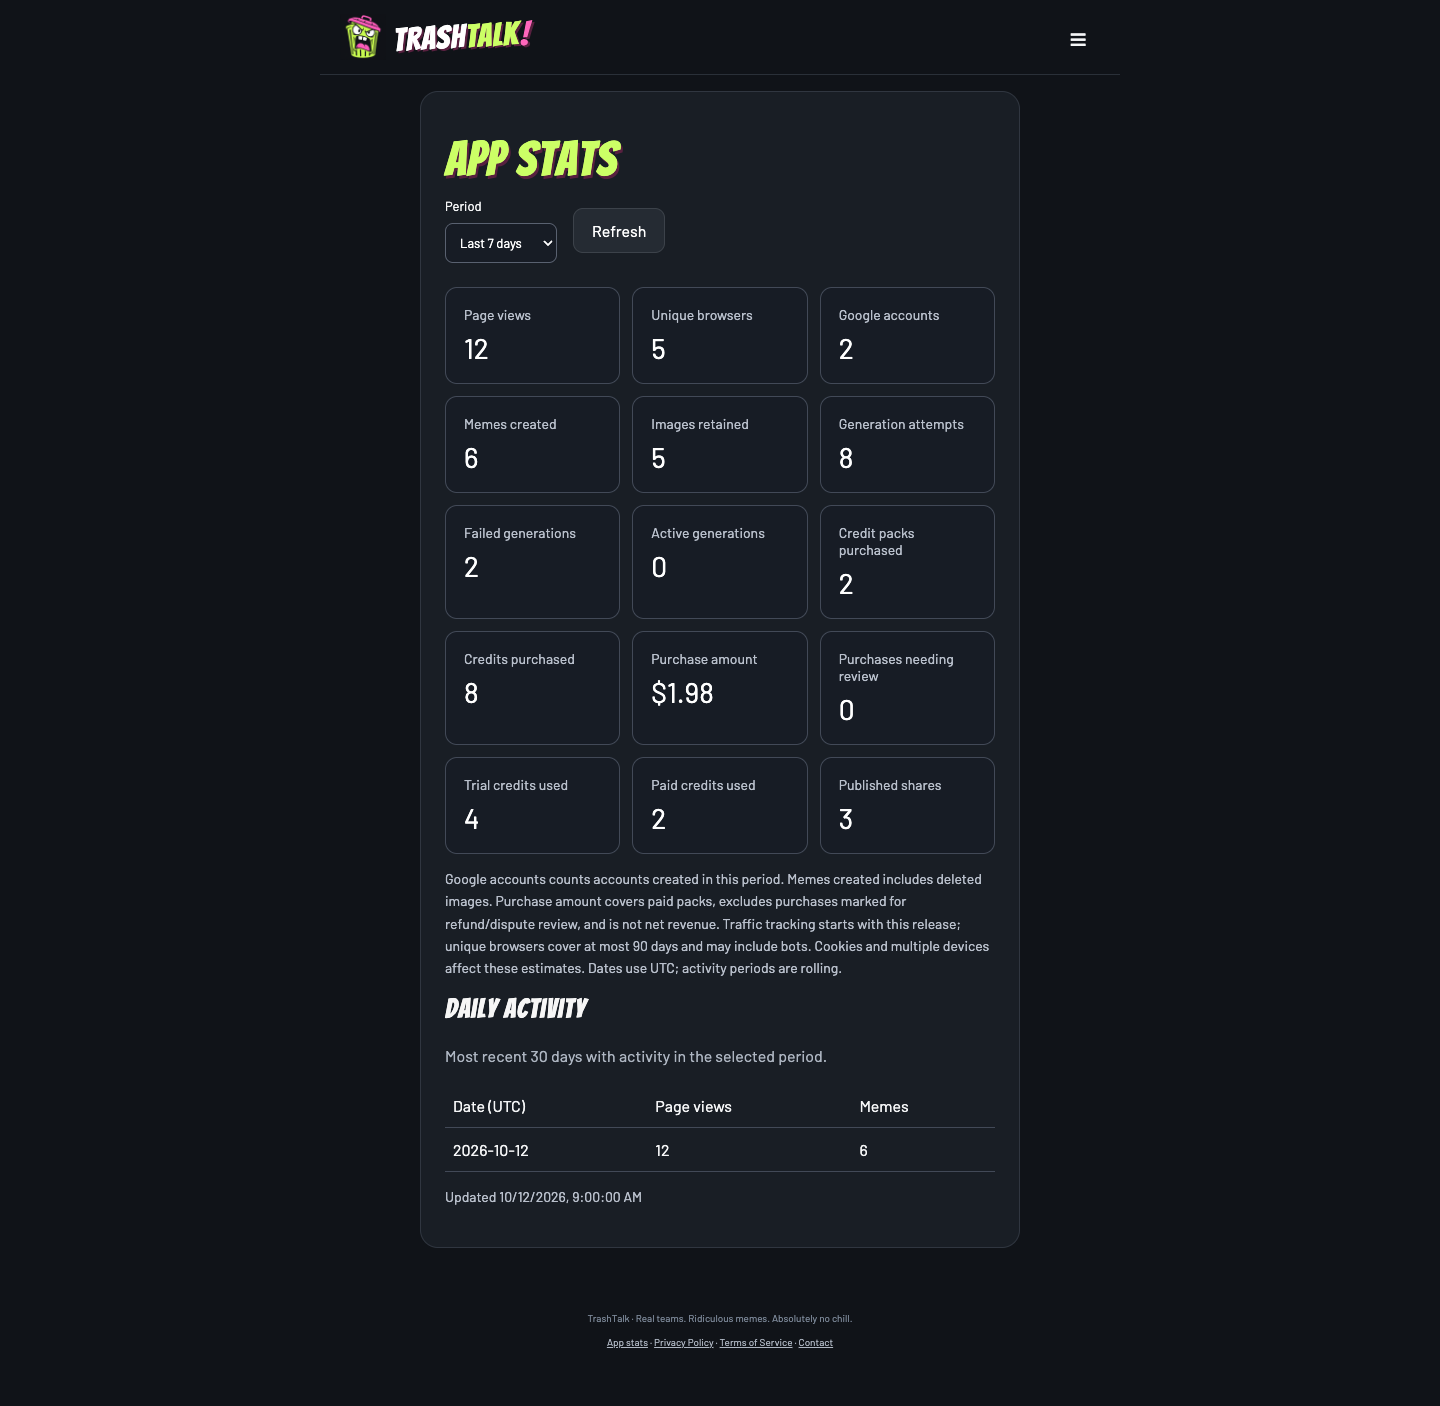
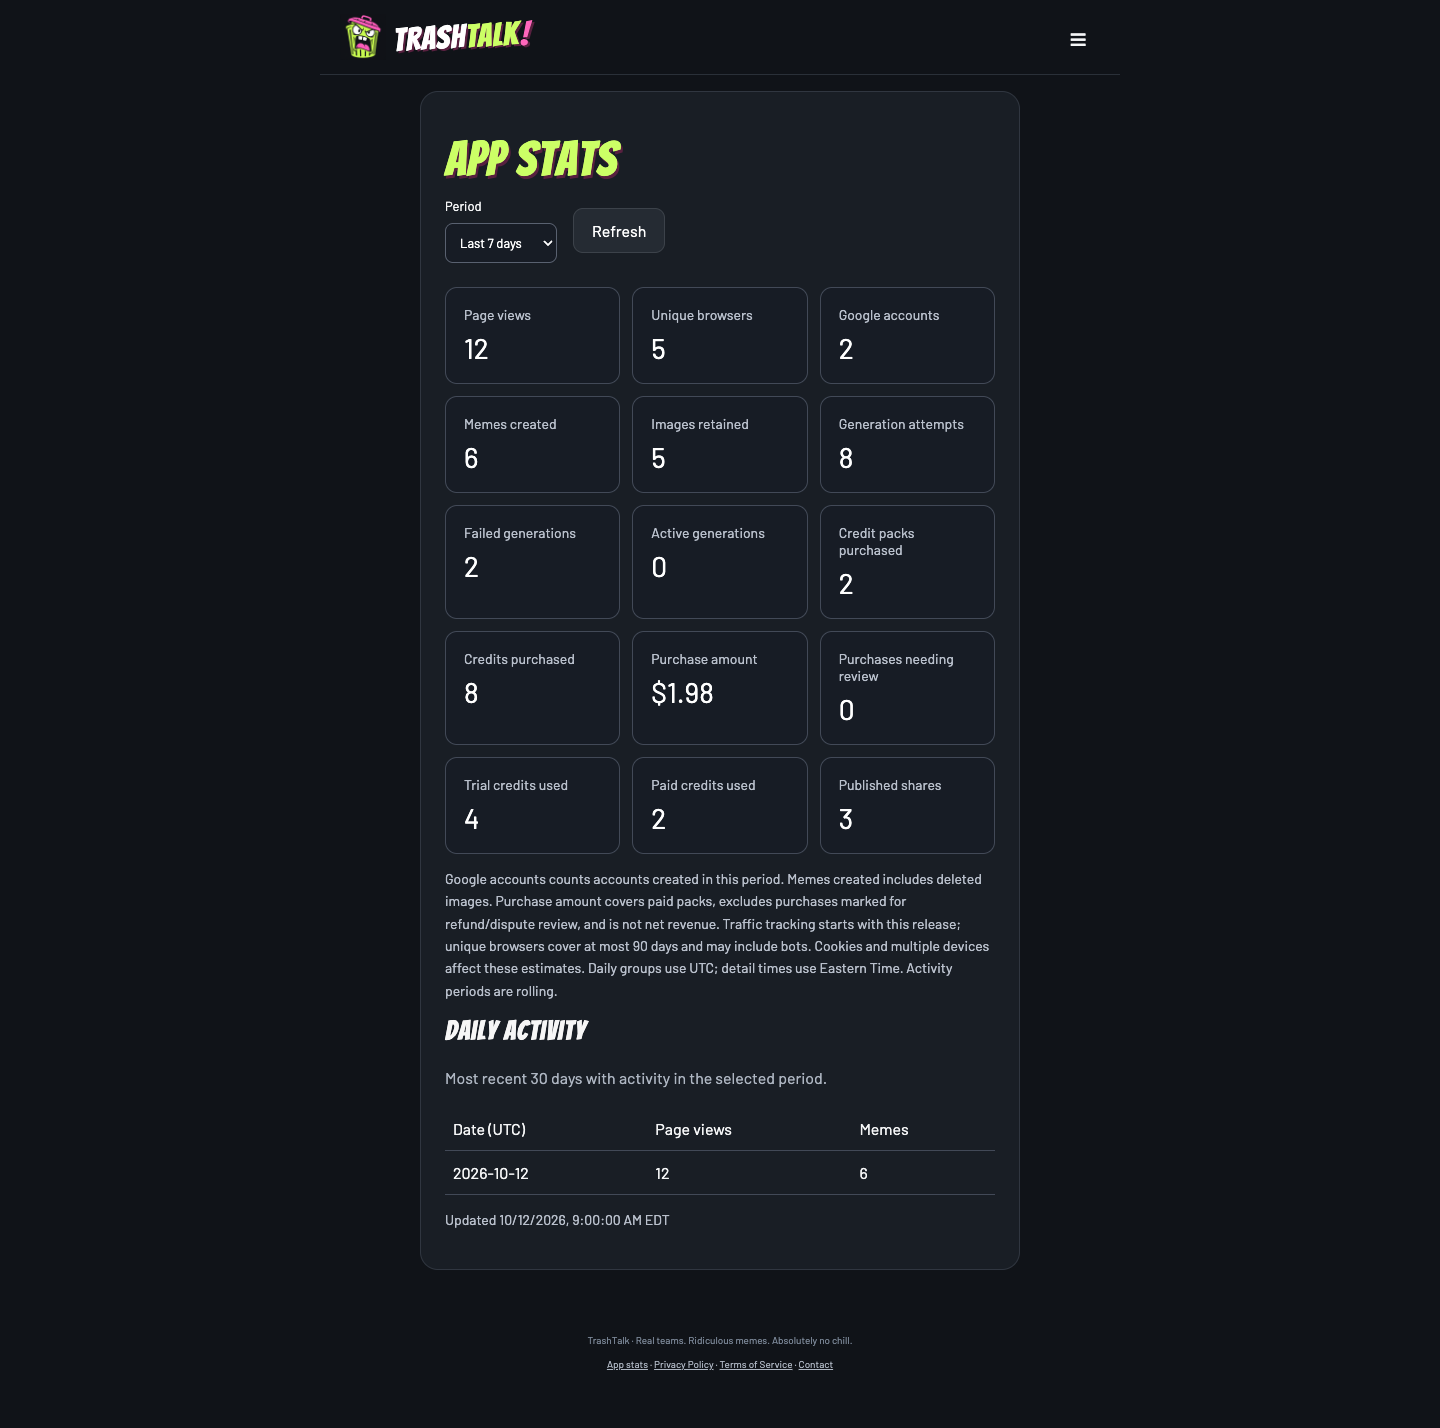
Show Eastern date and time in stats detail modals

diff --git a/worker/src/stats.ts b/worker/src/stats.ts
@@ -87,8 +87,8 @@ export async function statDetails(
     columns: string[],
     note = "";
   if (metric === "views") {
-    query = `SELECT i.day AS "Date (UTC)",CASE WHEN i.ip='' THEN 'Not recorded' ELSE i.ip END AS "IP address",g.city AS "City",g.state AS "State / region",g.country AS "Country",i.views AS "Page views" FROM traffic_ip_daily i LEFT JOIN traffic_ip_locations g ON g.ip=i.ip WHERE i.day>=?
-      UNION ALL SELECT d.day AS "Date (UTC)",'Not recorded' AS "IP address",NULL AS "City",NULL AS "State / region",NULL AS "Country",d.views-COALESCE((SELECT SUM(i.views) FROM traffic_ip_daily i WHERE i.day=d.day),0) AS "Page views" FROM traffic_daily d WHERE d.day>=? AND d.views>COALESCE((SELECT SUM(i.views) FROM traffic_ip_daily i WHERE i.day=d.day),0) ORDER BY "Date (UTC)" DESC,"IP address"`;
+    query = `SELECT i.day AS "Date (UTC)",CASE WHEN i.ip='' THEN 'Not recorded' ELSE i.ip END AS "IP address",g.city AS "City",g.state AS "State / region",g.country AS "Country",i.views AS "Page views",i.first_seen AS "First visit (ET)",i.last_seen AS "Last visit (ET)" FROM traffic_ip_daily i LEFT JOIN traffic_ip_locations g ON g.ip=i.ip WHERE i.day>=?
+      UNION ALL SELECT d.day AS "Date (UTC)",'Not recorded' AS "IP address",NULL AS "City",NULL AS "State / region",NULL AS "Country",d.views-COALESCE((SELECT SUM(i.views) FROM traffic_ip_daily i WHERE i.day=d.day),0) AS "Page views",NULL AS "First visit (ET)",NULL AS "Last visit (ET)" FROM traffic_daily d WHERE d.day>=? AND d.views>COALESCE((SELECT SUM(i.views) FROM traffic_ip_daily i WHERE i.day=d.day),0) ORDER BY "Date (UTC)" DESC,"IP address"`;
     values = [firstDay, firstDay];
     columns = [
       "Date (UTC)",
@@ -97,22 +97,24 @@ export async function statDetails(
       "State / region",
       "Country",
       "Page views",
+      "First visit (ET)",
+      "Last visit (ET)",
     ];
     note =
-      "Page views are grouped by day and IP address. Daily IP records are retained for 90 days; the first location for each IP is cached. Geolocation is approximate; country uses its two-letter code. Older views or visits before IP tracking show “Not recorded.” Home-IP and signed-in operator traffic are excluded.";
+      "Page views are grouped by day and IP address. Daily IP records are retained for 90 days; the first location for each IP is cached. Geolocation is approximate; country uses its two-letter code. Older views or visits before IP tracking show “Not recorded.” Home-IP and signed-in operator traffic are excluded. Traffic timestamps begin with this update; earlier times were not recorded.";
   } else if (metric === "visitors") {
-    query = `SELECT v.visitor AS "Browser identifier",COALESCE(GROUP_CONCAT(DISTINCT NULLIF(i.ip,'')),'Not recorded') AS "IP addresses",GROUP_CONCAT(DISTINCT CASE WHEN i.ip IS NOT NULL AND i.ip!='' THEN i.ip||': '||COALESCE(g.city,'Unknown city')||', '||COALESCE(g.state,'Unknown region')||', '||COALESCE(g.country,'Unknown country') END) AS "Locations",MIN(v.day) AS "First seen (UTC)",MAX(v.day) AS "Last seen (UTC)",COUNT(DISTINCT v.day) AS "Days visited" FROM traffic_visitors v LEFT JOIN traffic_visitor_ips i ON i.day=v.day AND i.visitor=v.visitor LEFT JOIN traffic_ip_locations g ON g.ip=i.ip WHERE v.day>=? GROUP BY v.visitor ORDER BY MAX(v.day) DESC,v.visitor`;
+    query = `SELECT v.visitor AS "Browser identifier",COALESCE(GROUP_CONCAT(DISTINCT NULLIF(i.ip,'')),'Not recorded') AS "IP addresses",GROUP_CONCAT(DISTINCT CASE WHEN i.ip IS NOT NULL AND i.ip!='' THEN i.ip||': '||COALESCE(g.city,'Unknown city')||', '||COALESCE(g.state,'Unknown region')||', '||COALESCE(g.country,'Unknown country') END) AS "Locations",MIN(v.first_seen) AS "First seen (ET)",MAX(v.last_seen) AS "Last seen (ET)",COUNT(DISTINCT v.day) AS "Days visited" FROM traffic_visitors v LEFT JOIN traffic_visitor_ips i ON i.day=v.day AND i.visitor=v.visitor LEFT JOIN traffic_ip_locations g ON g.ip=i.ip WHERE v.day>=? GROUP BY v.visitor ORDER BY MAX(v.day) DESC,v.visitor`;
     values = [firstDay];
     columns = [
       "Browser identifier",
       "IP addresses",
       "Locations",
-      "First seen (UTC)",
-      "Last seen (UTC)",
+      "First seen (ET)",
+      "Last seen (ET)",
       "Days visited",
     ];
     note =
-      "Browser identifiers and their recorded IP addresses cover at most 90 days. A browser can use several IPs, and an IP can be shared by several people. Home-IP and signed-in operator traffic are excluded.";
+      "Browser identifiers and their recorded IP addresses cover at most 90 days. A browser can use several IPs, and an IP can be shared by several people. Home-IP and signed-in operator traffic are excluded. Traffic timestamps begin with this update; earlier times were not recorded.";
   } else if (metric === "accounts") {
     query = `SELECT id AS "Account",google_sub AS "Google identifier",datetime(created_at,'unixepoch') AS "Created (UTC)" FROM principals WHERE google_sub IS NOT NULL AND created_at>=? ORDER BY created_at DESC,id`;
     values = [since];
@@ -160,8 +162,30 @@ export async function statDetails(
   ).results;
   const more = rows.length > 50;
   return {
-    columns,
-    rows: rows.slice(0, 50),
+    columns: columns.map((col) =>
+      col === "Date (UTC)" ? "Day (UTC)" : col.replace("(UTC)", "(ET)"),
+    ),
+    rows: rows.slice(0, 50).map((row: any) =>
+      Object.fromEntries(
+        Object.entries(row).map(([col, value]) => {
+          // Daily aggregates have only a date; keep that grouping explicit in UTC.
+          if (col === "Date (UTC)") return ["Day (UTC)", value];
+          if (col.endsWith("(UTC)"))
+            return [
+              col.replace("(UTC)", "(ET)"),
+              formatEastern(String(value).replace(" ", "T") + "Z"),
+            ];
+          if (col.endsWith("(ET)"))
+            return [
+              col,
+              value == null
+                ? "Time not recorded"
+                : formatEastern(Number(value) * 1000),
+            ];
+          return [col, value];
+        }),
+      ),
+    ),
     note,
     nextOffset: more ? offset + 50 : null,
   };
@@ -203,4 +227,19 @@ export async function cacheIpLocation(
     geo?.country || null,
     now(),
   ).run();
+}
+
+export function formatEastern(value: string | number) {
+  const date = new Date(value);
+  if (!Number.isFinite(date.getTime())) return "Time not recorded";
+  return new Intl.DateTimeFormat("en-US", {
+    timeZone: "America/New_York",
+    year: "numeric",
+    month: "short",
+    day: "numeric",
+    hour: "numeric",
+    minute: "2-digit",
+    second: "2-digit",
+    timeZoneName: "short",
+  }).format(date);
 }

diff --git a/tests/stats.test.ts b/tests/stats.test.ts
@@ -47,7 +47,7 @@ it("only the configured Google account sees the admin flag and stats", async () 
 it("aggregates traffic and paid purchases without counting review purchases", async () => {
   const { env, db } = testEnv();
   db.exec(
-    "INSERT INTO purchases VALUES('one','a','p1','paid',99,4,unixepoch()),('two','b','p2','review',99,4,unixepoch()); INSERT INTO traffic_daily VALUES(date('now'),3); INSERT INTO traffic_visitors VALUES(date('now'),'a'),(date('now'),'b')",
+    "INSERT INTO purchases VALUES('one','a','p1','paid',99,4,unixepoch()),('two','b','p2','review',99,4,unixepoch()); INSERT INTO traffic_daily VALUES(date('now'),3); INSERT INTO traffic_visitors(day,visitor) VALUES(date('now'),'a'),(date('now'),'b')",
   );
   const s = await stats(env, 30);
   expect(s.purchases).toEqual({ packs: 1, grossCents: 99, credits: 4 });
@@ -131,7 +131,7 @@ it("details match summary counts and paginate without duplicate accounts", async
  INSERT INTO ledger(owner,kind,amount,pool,business_key,job_id,created_at) VALUES('u0','captured',0,'trial','capture1','complete',unixepoch()),('u0','captured',0,'paid','capture2','deleted',unixepoch());
  INSERT INTO shares VALUES('s1','complete',unixepoch(),1),('s2','deleted',unixepoch(),1);
  INSERT INTO traffic_daily VALUES(date('now'),7);
- INSERT INTO traffic_visitors VALUES(date('now'),'browser');`);
+ INSERT INTO traffic_visitors(day,visitor) VALUES(date('now'),'browser');`);
   const s = await stats(env, 30);
   for (const [metric, count] of Object.entries({
     completed: s.images.completed,
@@ -190,8 +190,8 @@ it("details match summary counts and paginate without duplicate accounts", async
 it("retains aggregate views when IP records expire and does not double-count browser days across IPs", async () => {
   const { env, db } = testEnv();
   db.exec(`INSERT INTO traffic_daily VALUES('2000-01-01',5),(date('now'),4);
- INSERT INTO traffic_ip_daily VALUES('2000-01-01','192.0.2.1',5),(date('now'),'192.0.2.2',2),(date('now'),'192.0.2.3',1);
- INSERT INTO traffic_visitors VALUES('2000-01-01','old'),(date('now'),'current');
+ INSERT INTO traffic_ip_daily(day,ip,views) VALUES('2000-01-01','192.0.2.1',5),(date('now'),'192.0.2.2',2),(date('now'),'192.0.2.3',1);
+ INSERT INTO traffic_visitors(day,visitor) VALUES('2000-01-01','old'),(date('now'),'current');
  INSERT INTO traffic_visitor_ips VALUES('2000-01-01','old','192.0.2.1'),(date('now'),'current','192.0.2.2'),(date('now'),'current','192.0.2.3');`);
   await pruneTraffic(env);
   expect(
@@ -213,7 +213,7 @@ it("retains aggregate views when IP records expire and does not double-count bro
     details?.rows.reduce((total: number, r: any) => total + r["Page views"], 0),
   ).toBe(9);
   expect(
-    details?.rows.find((r: any) => r["Date (UTC)"] === "2000-01-01")?.[
+    details?.rows.find((r: any) => r["Day (UTC)"] === "2000-01-01")?.[
       "IP address"
     ],
   ).toBe("Not recorded");
@@ -239,7 +239,7 @@ it("looks up an IP once and reuses its saved location even after daily records e
     throw Error("must reuse saved location");
   });
   db.exec(
-    "INSERT INTO traffic_daily VALUES(date('now'),1);INSERT INTO traffic_ip_daily VALUES(date('now'),'192.0.2.20',1);INSERT INTO traffic_visitors VALUES(date('now'),'browser');INSERT INTO traffic_visitor_ips VALUES(date('now'),'browser','192.0.2.20')",
+    "INSERT INTO traffic_daily VALUES(date('now'),1);INSERT INTO traffic_ip_daily(day,ip,views) VALUES(date('now'),'192.0.2.20',1);INSERT INTO traffic_visitors(day,visitor) VALUES(date('now'),'browser');INSERT INTO traffic_visitor_ips VALUES(date('now'),'browser','192.0.2.20')",
   );
   const details = await statDetails(env, "views", 30, 0);
   expect(details?.rows[0]).toMatchObject({
@@ -290,4 +290,40 @@ it("records Cloudflare location on the first counted request and never overwrite
     db.prepare("SELECT city,state,country FROM traffic_ip_locations").get(),
   ).toMatchObject({ city: "Burlington", state: "Vermont", country: "US" });
   expect(db.prepare("SELECT views FROM traffic_ip_daily").get()?.views).toBe(2);
+});
+
+it("formats record timestamps in Eastern Time across daylight saving changes", async () => {
+  const { formatEastern } = await import("../worker/src/stats");
+  expect(formatEastern("2026-07-01T16:05:06Z")).toBe(
+    "Jul 1, 2026, 12:05:06 PM EDT",
+  );
+  expect(formatEastern("2026-01-01T16:05:06Z")).toBe(
+    "Jan 1, 2026, 11:05:06 AM EST",
+  );
+  expect(formatEastern("2026-07-01T02:05:06Z")).toBe(
+    "Jun 30, 2026, 10:05:06 PM EDT",
+  );
+  const { env, db } = testEnv();
+  db.exec(
+    "INSERT INTO principals(id,google_sub,created_at) VALUES('a','google',1782921906)",
+  );
+  const accounts = await statDetails(env, "accounts", 0, 0);
+  expect(accounts?.columns).toContain("Created (ET)");
+  expect(accounts?.rows[0]["Created (ET)"]).toBe(
+    formatEastern(1782921906 * 1000),
+  );
+  db.exec(
+    "INSERT INTO traffic_daily VALUES('2026-07-01',2);INSERT INTO traffic_ip_daily(day,ip,views,first_seen,last_seen) VALUES('2026-07-01','192.0.2.1',2,1782921906,1782925506);INSERT INTO traffic_visitors(day,visitor,first_seen,last_seen) VALUES('2026-07-01','browser',1782921906,1782925506)",
+  );
+  const views = await statDetails(env, "views", 0, 0),
+    visitors = await statDetails(env, "visitors", 0, 0);
+  expect(views?.rows[0]["First visit (ET)"]).toBe(
+    formatEastern(1782921906 * 1000),
+  );
+  expect(views?.rows[0]["Last visit (ET)"]).toBe(
+    formatEastern(1782925506 * 1000),
+  );
+  expect(visitors?.rows[0]["First seen (ET)"]).toBe(
+    formatEastern(1782921906 * 1000),
+  );
 });

diff --git a/apps/web/src/Stats.tsx b/apps/web/src/Stats.tsx
@@ -151,8 +151,8 @@ export function Stats() {
             excludes purchases marked for refund/dispute review, and is not net
             revenue. Traffic tracking starts with this release; unique browsers
             cover at most 90 days and may include bots. Cookies and multiple
-            devices affect these estimates. Dates use UTC; activity periods are
-            rolling.
+            devices affect these estimates. Daily groups use UTC; detail times
+            use Eastern Time. Activity periods are rolling.
           </p>
           <h2>Daily activity</h2>
           <p>Most recent 30 days with activity in the selected period.</p>
@@ -196,7 +196,11 @@ export function Stats() {
             <p>No activity recorded for this period.</p>
           )}
           <p className="stats-note">
-            Updated {new Date(data.generatedAt * 1000).toLocaleString()}
+            Updated{" "}
+            {new Date(data.generatedAt * 1000).toLocaleString("en-US", {
+              timeZone: "America/New_York",
+              timeZoneName: "short",
+            })}
           </p>
         </>
       )}

diff --git a/worker/src/index.ts b/worker/src/index.ts
@@ -91,15 +91,19 @@ app.use("*", async (c, next) => {
         ),
         sql(
           c.env,
-          "INSERT OR IGNORE INTO traffic_visitors(day,visitor) VALUES(?,?)",
+          "INSERT INTO traffic_visitors(day,visitor,first_seen,last_seen) VALUES(?,?,?,?) ON CONFLICT(day,visitor) DO UPDATE SET first_seen=COALESCE(first_seen,excluded.first_seen),last_seen=excluded.last_seen",
           day,
           visitorHash,
+          now(),
+          now(),
         ),
         sql(
           c.env,
-          "INSERT INTO traffic_ip_daily(day,ip,views) VALUES(?,?,1) ON CONFLICT(day,ip) DO UPDATE SET views=views+1",
+          "INSERT INTO traffic_ip_daily(day,ip,views,first_seen,last_seen) VALUES(?,?,1,?,?) ON CONFLICT(day,ip) DO UPDATE SET views=views+1,first_seen=COALESCE(first_seen,excluded.first_seen),last_seen=excluded.last_seen",
           day,
           ip,
+          now(),
+          now(),
         ),
         sql(
           c.env,

diff --git a/scripts/check-stats.ts b/scripts/check-stats.ts
@@ -52,12 +52,12 @@ for (const width of [390, 1440]) {
     const offset = Number(u.searchParams.get("offset") || 0);
     return r.fulfill({
       json: {
-        columns: ["Account", "Google identifier", "Created (UTC)"],
+        columns: ["Account", "Google identifier", "Created (ET)"],
         rows: [
           {
             Account: offset ? "next-account" : "example-account",
             "Google identifier": "123456789012345678901",
-            "Created (UTC)": "2026-10-12 12:00:00",
+            "Created (ET)": "Oct 12, 2026, 8:00:00 AM EDT",
           },
         ],
         note: "Account names and emails are not stored.",

diff --git a/README.md b/README.md
@@ -95,3 +95,5 @@ IP collection began with migration 0012. Page-view details group by UTC day and 
 IP geolocation: the first counted visit for an IP reads Cloudflare's `request.cf` city, region, and country metadata and inserts it into `traffic_ip_locations`. Subsequent visits check this cache and do not read geolocation again or call an external lookup service. A primary-key insert preserves the first saved result under concurrent visits. Missing location fields remain unknown, with no repeated lookup. Page-view details show City, State/region, and Country (two-letter country code); browser details associate each IP with its saved location. The IP/location cache persists beyond the 90-day daily-record retention to prevent future repeat lookups. The privacy policy reflects this retention. Excluded traffic never enters the cache.
 
 Successful-generation upload cleanup: `finalize` validates the stored meme, deletes each pinned user upload in R2, confirms absence, and deletes its owner-scoped upload record before atomically publishing completion/capturing the credit. Cleanup is idempotent and also runs on stored-artwork recovery. Failed deletions leave the job unfinished for recovery without repeating paid generation. Scheduled reconciliation removes legacy completed-job uploads. The browser clears the consumed photo selection after completion, so another meme needs a new upload. This controls app storage; provider retention remains governed by provider policies.
+
+Stats detail timestamps display date and time in America/New_York, including seconds and the correct EST/EDT label. Traffic daily/IP and daily/browser records now store first/last visit timestamps; historical rows with no timestamp show “Time not recorded.” UTC calendar-day grouping is labeled separately from the Eastern visit times. Exact timestamps for account creation, image jobs, purchases, captured credits, and shares are converted without changing their stored UTC values.
